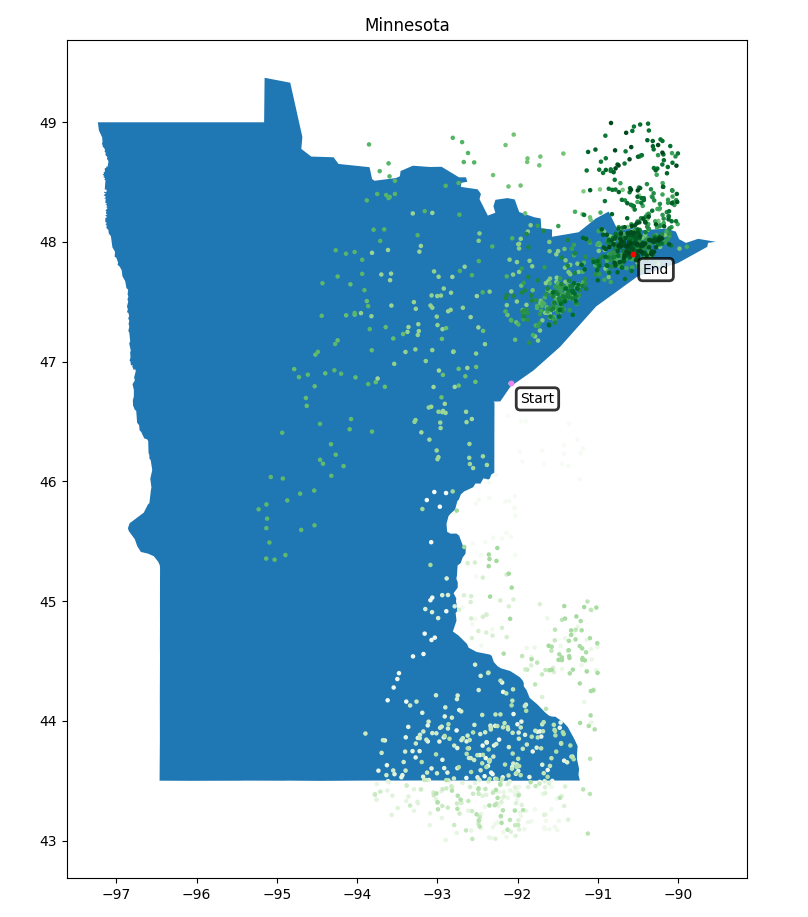
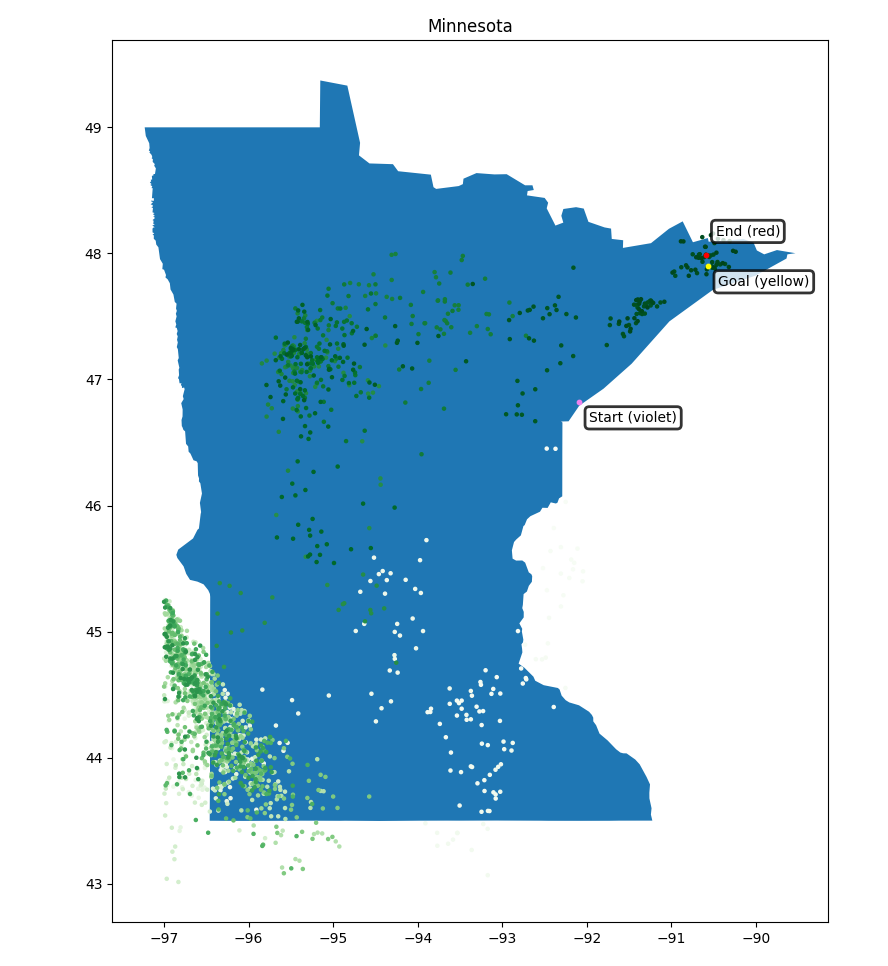
Implement elitism

diff --git a/main.py b/main.py
@@ -1,14 +1,9 @@
 from fitness import FitnessFunction
 from annealing import Annealer
+from vizualizer import visualize
 
 import scheduler
 import successor
-
-import pandas as pd
-import geopandas as gpd
-from shapely.geometry import Point
-import matplotlib.pyplot as plt
-
 
 fitness_func = FitnessFunction()
 ksc_coords = (46.81819372475244, -92.08550938909693)
@@ -26,68 +21,4 @@ sln = a.anneal(get_list=True)
 print(f"Found {sln[-1]} at height {fitness_func(sln[-1])}")
 print(f"Goal is {eagle_mtn} at height {fitness_func(eagle_mtn)}")
 
-data = {'Label': [], 'Latitude': [], 'Longitude': []}
-for i in range(len(sln)):
-    if i == 0: data['Label'].append("Start")
-    elif i == len(sln) - 1: data['Label'].append("Finish")
-    else: data['Label'].append("")
-    data['Latitude'].append(sln[i][0])
-    data['Longitude'].append(sln[i][1])
-
-df = pd.DataFrame.from_dict(data)
-
-df['coordinates'] = df[['Longitude', 'Latitude']].values.tolist()
-
-# Change the coordinates to a geoPoint
-df['coordinates'] = df['coordinates'].apply(Point)
-
-start_df = pd.DataFrame({
-    'Latitude': [ksc_coords[0]],
-    'Longitude': [ksc_coords[1]],
-})
-
-end_df = pd.DataFrame({
-    'Latitude': [sln[-1][0]],
-    'Longitude': [sln[-1][1]],
-})
-
-geometry = [Point(xy) for xy in zip(df['Longitude'], df['Latitude'])]
-gdf = gpd.GeoDataFrame(df, geometry=geometry, crs=4326)
-
-start_geometry = [Point(xy) for xy in zip(start_df['Longitude'], start_df['Latitude'])]
-start_gdf = gpd.GeoDataFrame(start_df, geometry=start_geometry, crs=4326)
-
-end_geometry = [Point(xy) for xy in zip(end_df['Longitude'], end_df['Latitude'])]
-end_gdf = gpd.GeoDataFrame(end_df, geometry=end_geometry, crs=4326)
-
-
-usa = gpd.read_file('gis/states.shp')
-u = usa[usa.STATE_ABBR == 'MN'].plot()
-
-gdf.plot(marker='o', cmap='Greens', markersize=5, ax=plt.gca())
-start_plot = start_gdf.plot(marker='o', color='violet', markersize=10, ax=plt.gca())
-end_plot = end_gdf.plot(marker='o', color='red', markersize=10, ax=plt.gca())
-
-for _, row in start_gdf.iterrows():
-    plt.annotate(
-        text="Start",
-        xy=[row.geometry.x, row.geometry.y],
-        xytext=[7, -14],
-        textcoords="offset points",
-        bbox=dict(boxstyle='round', fc='w', lw=2, alpha=0.8),
-    )
-
-for _, row in end_gdf.iterrows():
-    plt.annotate(
-        text="End",
-        xy=[row.geometry.x, row.geometry.y],
-        xytext=[7, -14],
-        textcoords="offset points",
-        bbox = dict(boxstyle='round', fc='w', lw=2, alpha=0.8),
-    )
-
-# for x, y, label in zip(df.geometry.x, df.geometry.y, df.label):
-#     pl.annotate(label, xy=(x, y), xytext=(3, 3), textcoords="offset points")
-
-plt.title("Minnesota")
-plt.show()
+visualize(sln, eagle_mtn)

diff --git a/vizualizer.py b/vizualizer.py
@@ -1,0 +1,80 @@
+import pandas as pd
+import geopandas as gpd
+from shapely.geometry import Point
+import matplotlib.pyplot as plt
+
+
+def create_singlepoint_gdf(coords):
+    lat = coords[0]
+    long = coords[1]
+    df = pd.DataFrame({
+        'Latitude': [lat],
+        'Longitude': [long],
+    })
+    geometry = [Point(long, lat)]
+    return gpd.GeoDataFrame(df, geometry=geometry, crs=4326)
+
+
+def create_multipoint_gdf(coord_list):
+    data = {'Label': [], 'Latitude': [], 'Longitude': []}
+    for i in range(len(coord_list)):
+        if i == 0:
+            data['Label'].append("Start")
+        elif i == len(coord_list) - 1:
+            data['Label'].append("Finish")
+        else:
+            data['Label'].append("")
+        data['Latitude'].append(coord_list[i][0])
+        data['Longitude'].append(coord_list[i][1])
+
+    df = pd.DataFrame.from_dict(data)
+
+    df['coordinates'] = df[['Longitude', 'Latitude']].values.tolist()
+
+    # Change the coordinates to a geoPoint
+    df['coordinates'] = df['coordinates'].apply(Point)
+
+    geometry = [Point(xy) for xy in zip(df['Longitude'], df['Latitude'])]
+    return gpd.GeoDataFrame(df, geometry=geometry, crs=4326)
+
+
+def create_point_label(gdf, text, color, size, offset):
+    gdf.plot(marker='o', color=color, markersize=size, ax=plt.gca())
+
+    offset_coords = [0, 0]
+    if offset == 'down':
+        offset_coords = [7, -14]
+    elif offset == 'up':
+        offset_coords = [7, 14]
+
+    for _, row in gdf.iterrows():
+        plt.annotate(
+            text=text,
+            xy=[row.geometry.x, row.geometry.y],
+            xytext=offset_coords,
+            textcoords="offset points",
+            bbox=dict(boxstyle='round', fc='w', lw=2, alpha=0.8),
+        )
+
+
+def plot_point(coords, text, color, size, offset='down'):
+    gdf = create_singlepoint_gdf(coords)
+    create_point_label(gdf, text, color, size, offset)
+
+
+def visualize(sln, goal):
+    # Plot map of Minnesota
+    usa = gpd.read_file('gis/states.shp')
+    usa[usa.STATE_ABBR == 'MN'].plot()
+
+    # Plot solution path
+    gdf = create_multipoint_gdf(sln)
+    gdf.plot(marker='o', cmap='Greens', markersize=5, ax=plt.gca())
+
+    # Plot start, end, and goal with labels
+    plot_point(sln[0], "Start (violet)", 'violet', 10)
+    plot_point(sln[-1], "End (red)", 'red', 10, offset='up')
+    plot_point(goal, "Goal (yellow)", 'yellow', 10)
+
+    plt.title("Minnesota")
+    plt.show()

diff --git a/annealing.py b/annealing.py
@@ -30,6 +30,7 @@ class Annealer:
     def anneal(self, get_list=False):
         coords = []
         current = self.initial_state
+        best = current
 
         for t in range(0, sys.maxsize):
             if get_list:
@@ -41,13 +42,16 @@ class Annealer:
                 if DEBUG:
                     print(f"Finished after {t} iterations")
                 if get_list:
+                    coords.append(best)
                     return coords
                 else:
-                    return current
+                    return best
 
             next_neighbor = self.successor(current)
 
             delta_e = self.value(next_neighbor) - self.value(current)
 
-            if delta_e > 0 or (exp(delta_e/T) > uniform(0, 1)):
+            if delta_e > 0 or (exp(delta_e / T) > uniform(0, 1)):
                 current = next_neighbor
+                if self.value(current) > self.value(best):
+                    best = current

diff --git a/README.md b/README.md
@@ -1,8 +1,10 @@
 # Simulated Annealing
 An implementation of the simulated annealing algorithm used to approximate the global optimum; in this case used to estimate the highest point in Minnesota (Eagle Mountain).
 
-### Successes
-These images show several of the successful runs of this simulated annealing algorithm. For each image, the following parameters were used:
+## Success
+These images show several of the successful runs of this simulated annealing algorithm. In each image, the start and end points of the algorithm are labeled, as well as the goal. The points in between vary in color in accordance to their position in the iteration; from white (early values) to dark green (values closer to the end).
+Most of the paths will either follow a track where early on, the points will scatter around the state and slowly converge on Eagle Mountain as they become darker green; or move more or less directly toward the goal. However, in some cases the points converge on a different location as the algorithm runs its course but the end is still shown near the goal. In these instances, elitism is being applied; where the best solution found so far is held and compared with each subsequent point and, in these cases, replaces the final point.
+For each image, the following parameters were used:
 
 | Parameter |  Value |
 | :--- |-------:|
@@ -12,15 +14,20 @@ These images show several of the successful runs of this simulated annealing alg
 | Limit | 100 |
 | Successor Variance |   0.25 |
 
-![Path taken by algorithm](img/success_01.png)
-![Path taken by algorithm](img/success_02.png)
-![Path taken by algorithm](img/success_03.png)
-![Path taken by algorithm](img/success_04.png)
+![Very accurate path](img/success_01.png)
+![Accurate path with wider search area](img/success_02.png)
+![Accurate path with extremely broad search area](img/success_03.png)
+![Accurate path](img/success_04.png)
+![Accurate path with narrow search area](img/success_05.png)
+![Successful path using elitism](img/success_elitism.png)
 
-### Failure
-This image is an example of the algorithm finding a local optimum rather than the global optimum. The program was run using the same parameters as the success images above.
+## Failure
+This image is an example of the algorithm finding a local optimum rather than the global optimum. In this case, the algorithm happened to place all of its points far west of the goal, so no areas of higher elevation in northwest minnesota were found. Because it never even looked near the solution, elitism did not prevent this failure. A nonzero failure rate with results such as this is part of the trade-off between performance and accuracy I arrived at when setting the parameters.
+When creating this image, the program was run using the same parameters as the other images.
 
-![Path taken by algorithm](img/failure.png)
+![Failure](img/failure.png)
 
-### Outcome
-Overall, the algorithm seems successful and the parameters I found to run it with find a point very near Eagle Mountain on nearly every iteration.
+## Outcome
+Overall, the algorithm seems successful and the parameters I used find a point very near Eagle Mountain on most iterations.
+The path taken by the algorithm can vary greatly each time it runs, as it uses a random normal distribution weighted in the direction of higher elevation to choose each successor. This means that sometimes the path to the solution will be more or less direct, with each point progressing from Duluth up the north shore in the general direction of Eagle Mountain. On the other hand, some iterations will jump all around Minnesota before settling on Eagle Mountain or an incorrect local optimum. For the highest accuracy, the search would look all over the state to rule out any local optimums every time, but that would come at the cost of longer runtimes and a potentially lower success rate.
+Sometimes, the distribution of points across the map will create an approximation of a topographical map of minnesota, with more points concentrated at areas of higher elevation.
